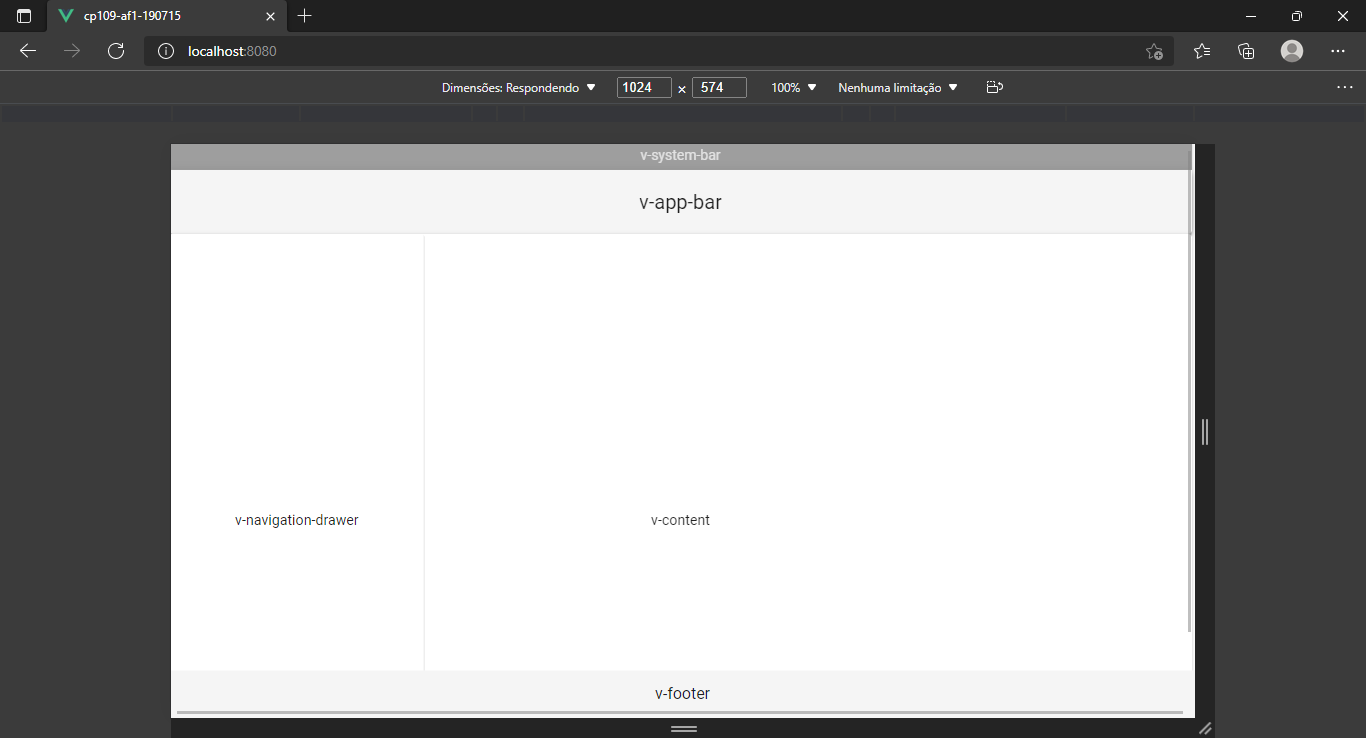
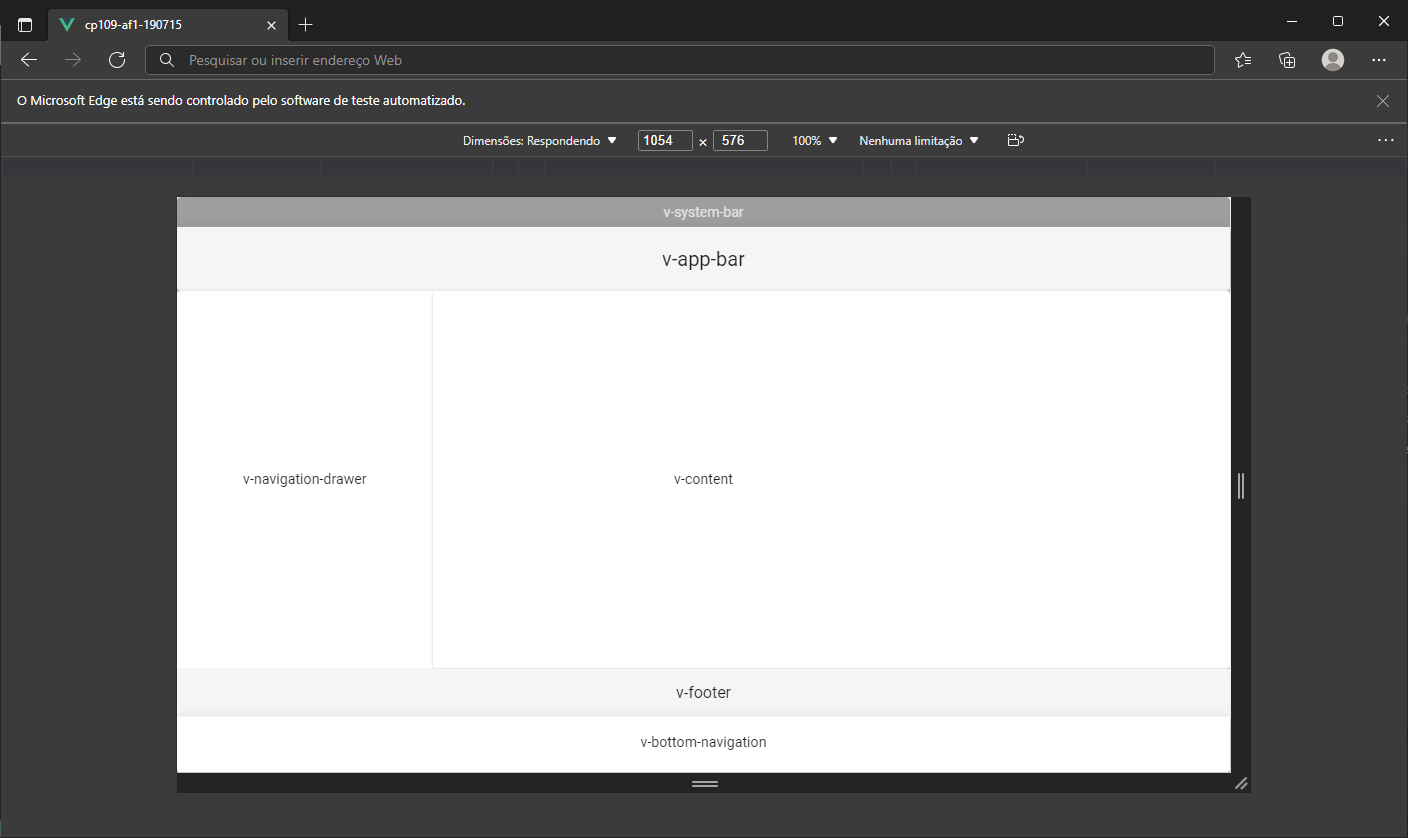
fix: add missing component

diff --git a/src/components/Footer.vue b/src/components/Footer.vue
@@ -1,5 +1,10 @@
 <template>
-  <v-footer fixed bottom padless>
-    <v-col class="text-center"> v-footer </v-col>
-  </v-footer>
+  <v-card>
+    <v-footer padless>
+      <v-col class="text-center"> v-footer </v-col>
+    </v-footer>
+    <v-bottom-navigation horizontal align="center" justify="center">
+      <v-card-text>v-bottom-navigation</v-card-text>
+    </v-bottom-navigation>
+  </v-card>
 </template>

diff --git a/src/App.vue b/src/App.vue
@@ -3,7 +3,7 @@
     <v-main>
       <app-header />
 
-      <v-card height="100%">
+      <v-card style="height: calc(100vh - 198px);">
         <app-drawer />
         <router-view />
       </v-card>
